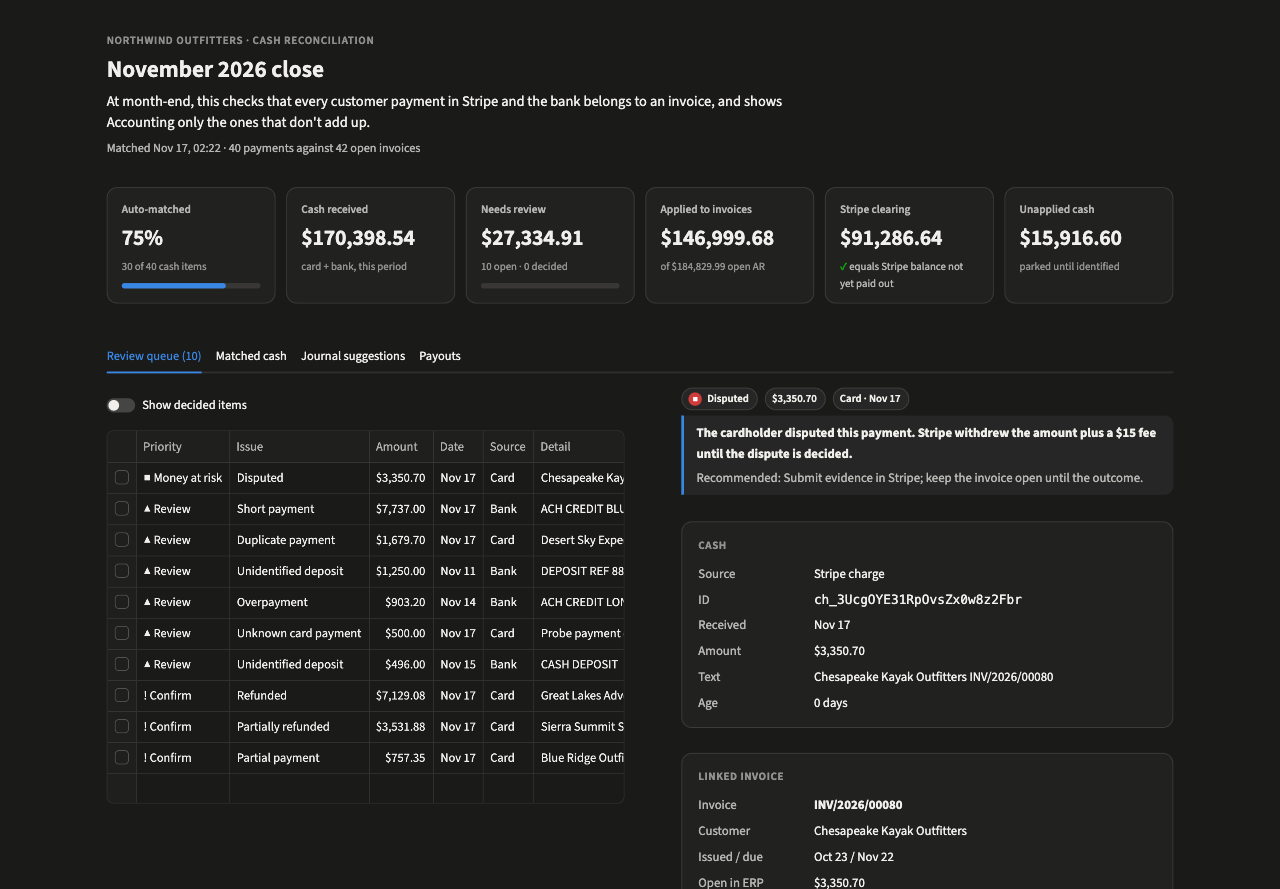
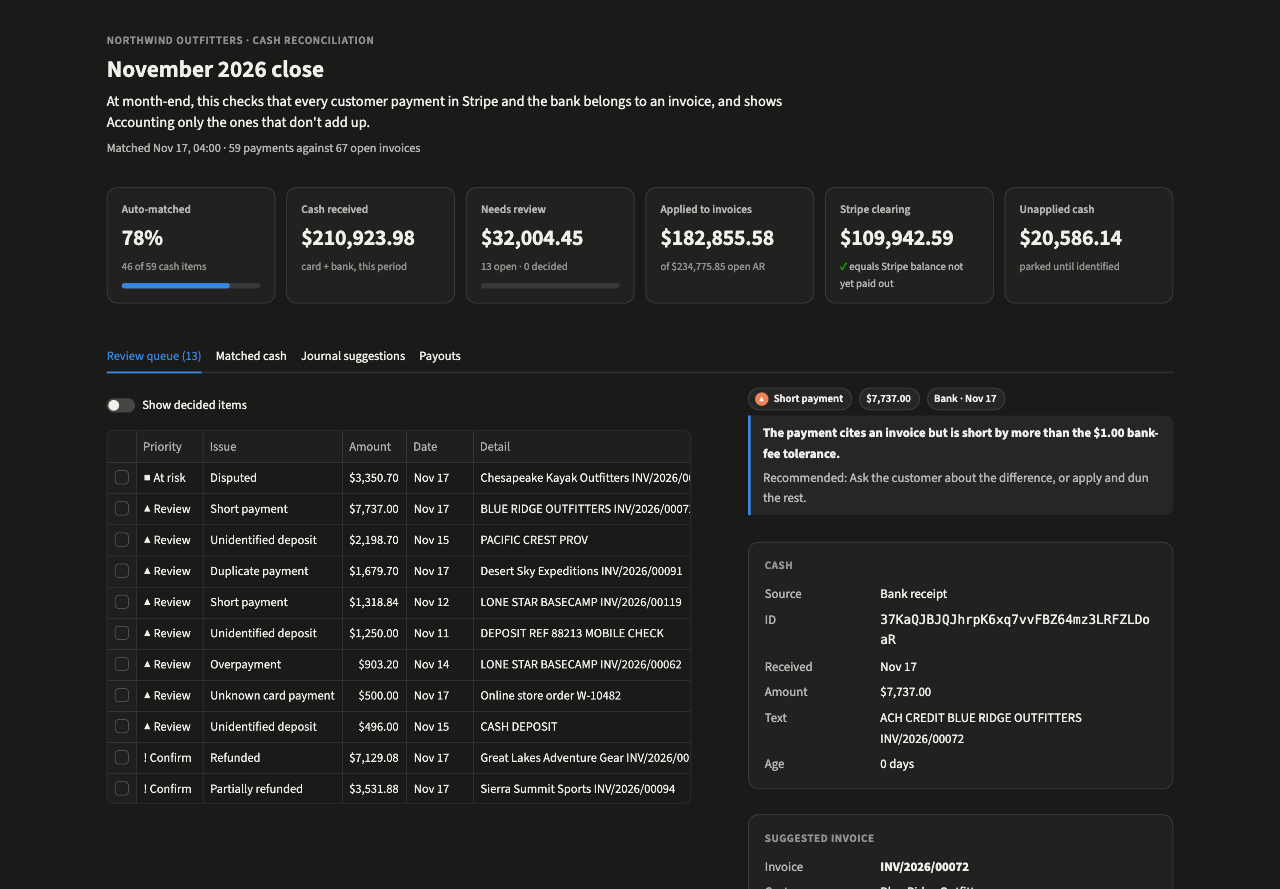
Holdout results, live demo, review list polish
- Holdout on 25 new real invoices: 17/20 as specified, 0 wrong automatic
  matches, recall 93%; misses reported in the README as they came out
- Precision is scored per scenario set (pairs touching that set only)
- CI gates both sets; snapshot now includes the holdout run
- Live demo on Streamlit Community Cloud; the app rebuilds its demo
  warehouse whenever the committed snapshot changes
- Review list: wider detail, no bank prefixes, shorter labels; no
  candidate panel when there is no candidate

diff --git a/src/recon/app/streamlit_app.py b/src/recon/app/streamlit_app.py
@@ -5,6 +5,7 @@ Run locally:  uv run --group app streamlit run src/recon/app/streamlit_app.py
 
 from __future__ import annotations
 
+import re
 from collections import defaultdict
 from typing import Any
 
@@ -77,7 +78,7 @@ tab_queue, tab_matched, tab_journal, tab_payouts = st.tabs(
 
 # ------------------------------------------------------------------ queue
 with tab_queue:
-    left, right = st.columns([1.05, 1], gap="large")
+    left, right = st.columns([1.35, 1], gap="large")
     with left:
         show_done = st.toggle("Show decided items", value=False)
         rows = exceptions if show_done else open_items
@@ -86,12 +87,13 @@ with tab_queue:
                     "journal review.</div>")
         else:
             table = [{
-                "Priority": {1: "■ Money at risk", 2: "▲ Review", 3: "! Confirm"}[r["priority"]],
+                "Priority": {1: "■ At risk", 2: "▲ Review", 3: "! Confirm"}[r["priority"]],
                 "Issue": CODES.get(r["exception_code"], (r["exception_code"],))[0],
                 "Amount": r["amount_cents"] / 100,
                 "Date": r["cash_date"],
-                "Source": "Card" if r["source"] == "stripe_charge" else "Bank",
-                "Detail": (r["cash_text"] or "").strip()[:60],
+                # Bank prefixes are noise in a list; the evidence panel shows the full text.
+                "Detail": re.sub(r"^(ACH CREDIT|WIRE IN)\s+", "",
+                                 (r["cash_text"] or "").strip()),
                 "Decision": (r["review_action"] or "").capitalize(),
             } for r in rows]
             event = st.dataframe(
@@ -99,7 +101,9 @@ with tab_queue:
                 on_select="rerun", selection_mode="single-row",
                 column_config={
                     "Amount": st.column_config.NumberColumn(format="$%,.2f"),
-                    "Date": st.column_config.DateColumn(format="MMM D"),
+                    "Date": st.column_config.DateColumn(format="MMM D", width="small"),
+                    "Priority": st.column_config.TextColumn(width="small"),
+                    "Detail": st.column_config.TextColumn(width="large"),
                 },
             )
             # Deep link: ?item=<source_id> opens that exception (shareable with a colleague).
@@ -142,7 +146,7 @@ with tab_queue:
                         ("Open in ERP", money(inv["amount_residual_cents"])),
                         ("Cash vs open", f'<span class="diff">{money(gap, signed=True)}</span>'),
                     ]))
-            if e["breakdown"] and "total" in e["breakdown"]:
+            if candidates and e["breakdown"] and "total" in e["breakdown"]:
                 st.html(f'<div class="card"><h4>Why this candidate</h4>'
                         f'{meters(e["breakdown"])}</div>')
 

diff --git a/src/recon/app/data.py b/src/recon/app/data.py
@@ -14,7 +14,13 @@ from recon.warehouse import Warehouse
 
 
 def db_path() -> str:
-    return os.environ.get("RECON_DUCKDB_PATH", "recon.duckdb")
+    """The real warehouse when running with sandbox credentials (.env), otherwise the
+    demo warehouse rebuilt from the committed snapshot (e.g. Streamlit Cloud)."""
+    from pathlib import Path
+
+    if "RECON_DUCKDB_PATH" in os.environ:
+        return os.environ["RECON_DUCKDB_PATH"]
+    return "recon.duckdb" if Path(".env").exists() else "demo.duckdb"
 
 
 def ensure_demo_db() -> None:
@@ -30,14 +36,31 @@ def ensure_demo_db() -> None:
     from pathlib import Path
 
     target = Path(db_path())
-    if target.exists():
+    stamp = target.with_name(target.name + ".snapshot")
+    if target.exists() and not stamp.exists() and target.name != "demo.duckdb":
+        return  # a real warehouse (local use), not a demo build: never touch it
+    if target.exists() and stamp.read_text() == snapshot_fingerprint():
         return
+    target.unlink(missing_ok=True)  # demo built from an older snapshot: rebuild
     building = target.with_name(target.name + ".building")
     for leftover in (building, building.with_name(building.name + ".wal")):
         leftover.unlink(missing_ok=True)
     subprocess.run([sys.executable, "-m", "recon.cli", "demo", "--db", str(building)],
                    check=True, env={**os.environ, "RECON_DUCKDB_PATH": str(building)})
     building.rename(target)
+    stamp.write_text(snapshot_fingerprint())
+
+
+def snapshot_fingerprint() -> str:
+    """Changes whenever the committed snapshot or the matching config changes."""
+    import hashlib
+    from pathlib import Path
+
+    h = hashlib.sha256()
+    for f in sorted([*Path("seeds/snapshot").glob("*.csv"), Path("config/matching.yaml")]):
+        h.update(f.name.encode())
+        h.update(f.read_bytes())
+    return h.hexdigest()
 
 
 def _query(sql: str, params: list[Any] | None = None) -> list[dict[str, Any]]:

diff --git a/src/recon/evaluate.py b/src/recon/evaluate.py
@@ -85,6 +85,13 @@ def evaluate(con: duckdb.DuckDBPyConnection, expected_csv: Path,
             for target in ([inv] if inv else json.loads(suggestion or "[]")):
                 exc_on[(sid, target)].add(exc)
 
+    # Only pairs that touch this plan's cash or invoices count; another scenario set in
+    # the same run (e.g. the holdout next to the designed cases) is scored separately.
+    plan_cash = {sid for ids in cash_of.values() for sid in ids}
+    plan_invoices = {r["invoice"] for r in expected}
+    engine_pairs = {(sid, inv) for sid, inv in engine_pairs
+                    if sid in plan_cash or inv in plan_invoices}
+
     outcomes = []
     for r in expected:
         o = InvoiceOutcome(r["invoice"], r["case_id"], r["case"],

diff --git a/tests/test_evaluate.py b/tests/test_evaluate.py
@@ -42,3 +42,10 @@ def test_swapped_cash_is_a_precision_miss_even_though_tiers_look_right(tmp_path:
     m = metrics(ev)
     assert m["precision"] == 0.0 and m["recall"] == 0.0 and m["correct"] == 0
     assert all("WRONG_CASH_LINKED" in o.exceptions for o in ev.outcomes)
+
+
+def test_pairs_of_another_scenario_set_do_not_count(tmp_path: Path) -> None:
+    con, exp, cash = _setup(tmp_path, [("b1", "INV/2026/00001", 1, None),
+                                       ("b2", "INV/2026/00002", 1, None),
+                                       ("other", "INV/2026/09999", 1, None)])
+    assert metrics(evaluate(con, exp, cash))["precision"] == 1.0

diff --git a/README.md b/README.md
@@ -6,13 +6,16 @@
 ![Python](https://img.shields.io/badge/python-3.11%2B-blue)
 ![dbt](https://img.shields.io/badge/dbt-DuckDB-orange)
 ![License](https://img.shields.io/badge/license-MIT-green)
+[![Live demo](https://img.shields.io/badge/live%20demo-streamlit-ff4b4b)](https://northwind-cash-recon.streamlit.app)
+
+**[Open the live demo](https://northwind-cash-recon.streamlit.app)**: the review app running on a snapshot of the real run, no login.
 
 ![Review app: close status and the exception queue](docs/img/review-queue-light.png)
 
 ```mermaid
 flowchart LR
     A["1 · Payments come in<br/><sub>Stripe card payments, bank transfers</sub>"] --> B["2 · Automatic matching<br/><sub>against open ERP invoices</sub>"]
-    B -->|"75% of payments"| C["Booked: suggested<br/>journal entries"]
+    B -->|"~4 in 5 payments"| C["Booked: suggested<br/>journal entries"]
     B -->|"the rest"| D["3 · Only exceptions<br/>go to a human"]
 ```
 
@@ -22,12 +25,12 @@ A Stripe payout that lands in the bank is not one payment. It's the net of dozen
 
 | Without it | With it |
 |---|---|
-| Every payment matched by hand (~2–3 min each) | 3 of 4 payments matched automatically, with the evidence attached |
+| Every payment matched by hand (~2–3 min each) | ~4 in 5 payments matched automatically, with the evidence attached |
 | Fees, refunds and disputes reconstructed from Stripe exports | Suggested journal entries for every fee, refund, dispute and short-payment |
 | "Does the Stripe clearing account tie out?" answered at the end | Checked on every run, to the cent |
 | Problems found when the customer calls | A prioritized queue: money at risk first, each item with a recommended action |
 
-*At 1,500 payments a month, a typical mid-market volume, automating 75% saves about 40–55 hours per close (assuming 2–3 minutes per manual match). That's an estimate from those stated assumptions, not a measurement.*
+*At 1,500 payments a month, a typical mid-market volume, automating 78% saves about 40–60 hours per close (assuming 2–3 minutes per manual match). That's an estimate from those stated assumptions, not a measurement.*
 
 ## At a glance
 
@@ -35,15 +38,15 @@ All numbers come from a real run against real sandbox APIs (Odoo ERP, Stripe tes
 
 | | |
 |---|---|
-| Payments processed | **40** (27 card, 13 bank), **$170,398.54** |
-| Matched automatically | **30 (75%)**, none wrong |
-| Sent to review | **10**, each with a reason code and recommended action |
-| Stripe clearing vs. Stripe balance | **ties to the cent** ($91,286.64) |
-| Designed test scenarios | **42 / 42** invoices handled as specified; **0** wrong automatic matches across 37 cash-invoice pairs |
-| Holdout scenarios (patterns the engine was not tuned on) | *pending, reported separately below* |
-| Automated checks | 76 unit tests · 50 dbt build steps (models, unit + data tests) · end-to-end run in CI |
+| Payments processed | **59** (33 card, 26 bank), **$210,923.98** |
+| Matched automatically | **46 (78%)**, none to the wrong cash |
+| Sent to review | **13**, each with a reason code and recommended action |
+| Stripe clearing vs. Stripe balance | **ties to the cent** ($109,942.59) |
+| Designed scenarios (written with the engine) | **42 / 42** invoices as specified · **0** wrong automatic matches in 37 cash-invoice pairs |
+| **Holdout** (new patterns, expectations fixed first) | **17 / 20** as specified · **0** wrong automatic matches in 16 pairs · recall 93% |
+| Automated checks | 77 unit tests · 50 dbt build steps (models, unit + data tests) · both scenario sets gated in CI |
 
-> **About those numbers.** The 42 scenarios were designed together with the engine, so they prove the mechanics, not generalization. That's why there's a separate [holdout](#holdout-unseen-patterns) with new patterns and expectations written down before the engine saw them.
+> **About those numbers.** The 42 designed scenarios were written together with the engine, so they prove the mechanics, not generalization. The [holdout](#holdout-unseen-patterns) uses new invoices and payment patterns whose expected outcomes were committed before the engine ran on them. Its misses are reported as they came out.
 
 ## Try it in one command
 
@@ -112,7 +115,23 @@ Scored as **cash-invoice pairs**: linking the right invoice to another customer'
 
 ### Holdout: unseen patterns
 
-*Pending.* A second batch of real invoices, paid with patterns the engine was never tuned on: transposed digits, citing the wrong invoice, abbreviated payer names, PO numbers instead of invoice numbers, two invoices of the same amount, early payment, a parent company paying for a subsidiary. Expectations are written from an AR clerk's point of view in [`plan.py`](src/recon/seed/plan.py) before the run. Results will be reported here as they come out, misses included.
+25 new real invoices, paid through Stripe and the bank with patterns the engine was never tuned on. The expected outcome of each case was written down from an AR clerk's point of view and committed ([`seeds/holdout`](seeds/holdout)) before the first matching run on them.
+
+| Pattern | Expected | Engine | |
+|---|---|---|---|
+| Transposed digits in the reference (×2) | match (fuzzy) | match (fuzzy) | ✓ |
+| Customer's PO number instead of our invoice number | match (fuzzy) | match (fuzzy) | ✓ |
+| Paid a day before the invoice date | match (exact) | match (exact) | ✓ |
+| Parent company pays for a subsidiary | match (exact) | match (exact) | ✓ |
+| Card payment with only the billing name (×2) | match (fuzzy) | match (fuzzy) | ✓ |
+| $0.40 bank fee short / $50 short | match + write-off / exception | same | ✓ |
+| One transfer for two invoices, no references | human review | `LOW_CONFIDENCE` | ✓ |
+| Exact references, card and bank (×6) | match (exact) | match (exact) | ✓ |
+| Two open invoices of the same amount, no reference | human review | matched by date fit | ✗ |
+| Cites a *different* open invoice of the same customer | human review | matched by amount and name | ✗ |
+| Abbreviated payer name (`PACIFIC CREST PROV`), no reference | match (fuzzy) | `UNAPPLIED_CASH` | ✗ |
+
+**What the misses mean:** no cash was applied to the wrong invoice (0 wrong automatic matches). Two cases were applied automatically where a clerk would have looked first. Both went to the right invoice, but one of them ignored a conflicting reference, which is a real risk. That's the next rule to add: when the memo cites a different open invoice of the same customer, send it to review. One case was missed, and it went to review instead of being booked. Fixing these now would leave the holdout unable to measure the fix, so it needs a fresh holdout first.
 
 ## Design decisions
 
